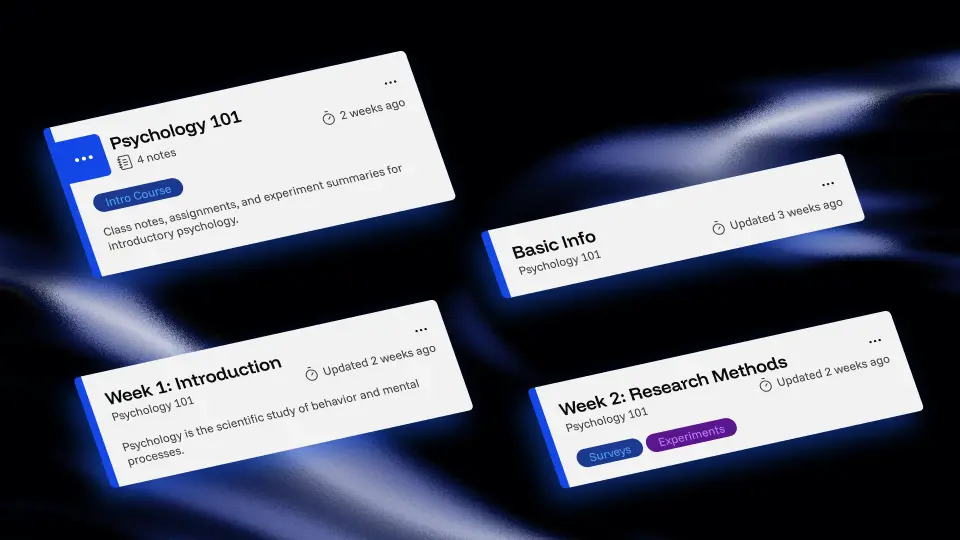
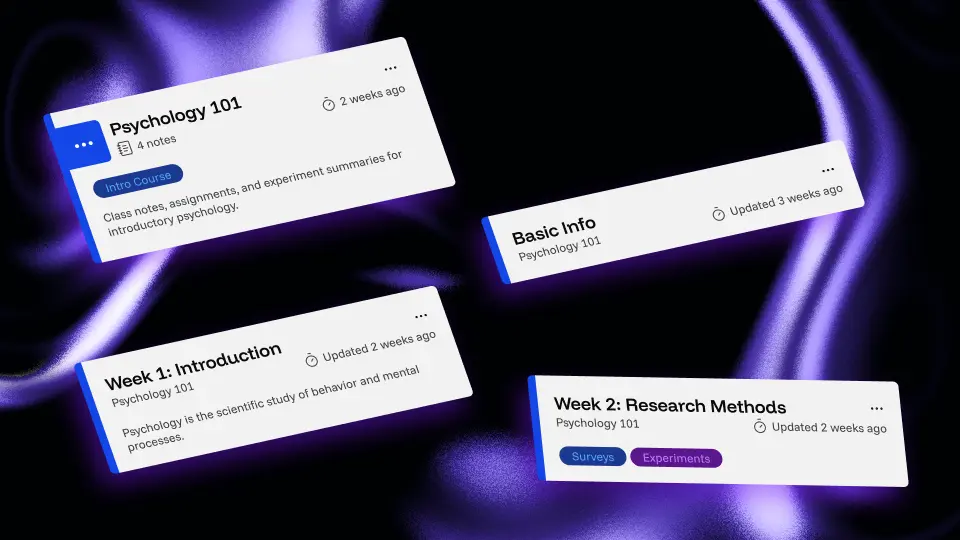
feat: added gradiamockup content to landing

diff --git a/frontend/src/routes/index.tsx b/frontend/src/routes/index.tsx
@@ -1,7 +1,7 @@
 import { createFileRoute, Link } from '@tanstack/react-router';
 import gradient from '@/assets/gradient.webp';
 import notebooksandnotes from '@/assets/notebooksandnotes.webp';
-import background1 from '@/assets/Rectangle-1.webp';
+import gradiamockups from '@/assets/gradiamockups.webp';
 import background2 from '@/assets/Rectangle-2.webp';
 import calendarandevents from '@/assets/calendarandevents.webp';
 import flashdecksandflashcards from '@/assets/flashdecksandflashcards.webp';
@@ -21,7 +21,7 @@ function RouteComponent() {
       title: 'Organize Smarter',
       description:
         'Gradia is your all-in-one student workspace. Take notes, build flashcards, planassignments, and track everything in one place – across mobile and desktop.',
-      image: background1,
+      image: gradiamockups,
     },
     {
       title: 'Notes & Notebooks',
@@ -100,7 +100,8 @@ function RouteComponent() {
               key={index}
               className={cn(
                 'flex max-w-5xl flex-col overflow-hidden rounded-xl border border-white/20',
-                index % 2 === 0 ? 'lg:translate-x-12 lg:flex-row-reverse' : 'lg:flex-row',
+                index % 2 === 1 ? 'lg:translate-x-12 lg:flex-row' : 'lg:flex-row-reverse',
+                index === 0 && 'lg:flex-col',
               )}
             >
               <div className="flex flex-col bg-white p-6 text-black lg:flex-2/5 dark:bg-black dark:text-white">
@@ -108,7 +109,10 @@ function RouteComponent() {
                 <p>{description}</p>
               </div>
               <div
-                className="min-h-80 w-full bg-cover bg-center bg-no-repeat lg:flex-4/5"
+                className={cn(
+                  'min-h-80 w-full bg-cover bg-center bg-no-repeat lg:flex-4/5',
+                  index === 0 && 'min-h-120',
+                )}
                 style={{ backgroundImage: `url(${image})` }}
               ></div>
             </div>
